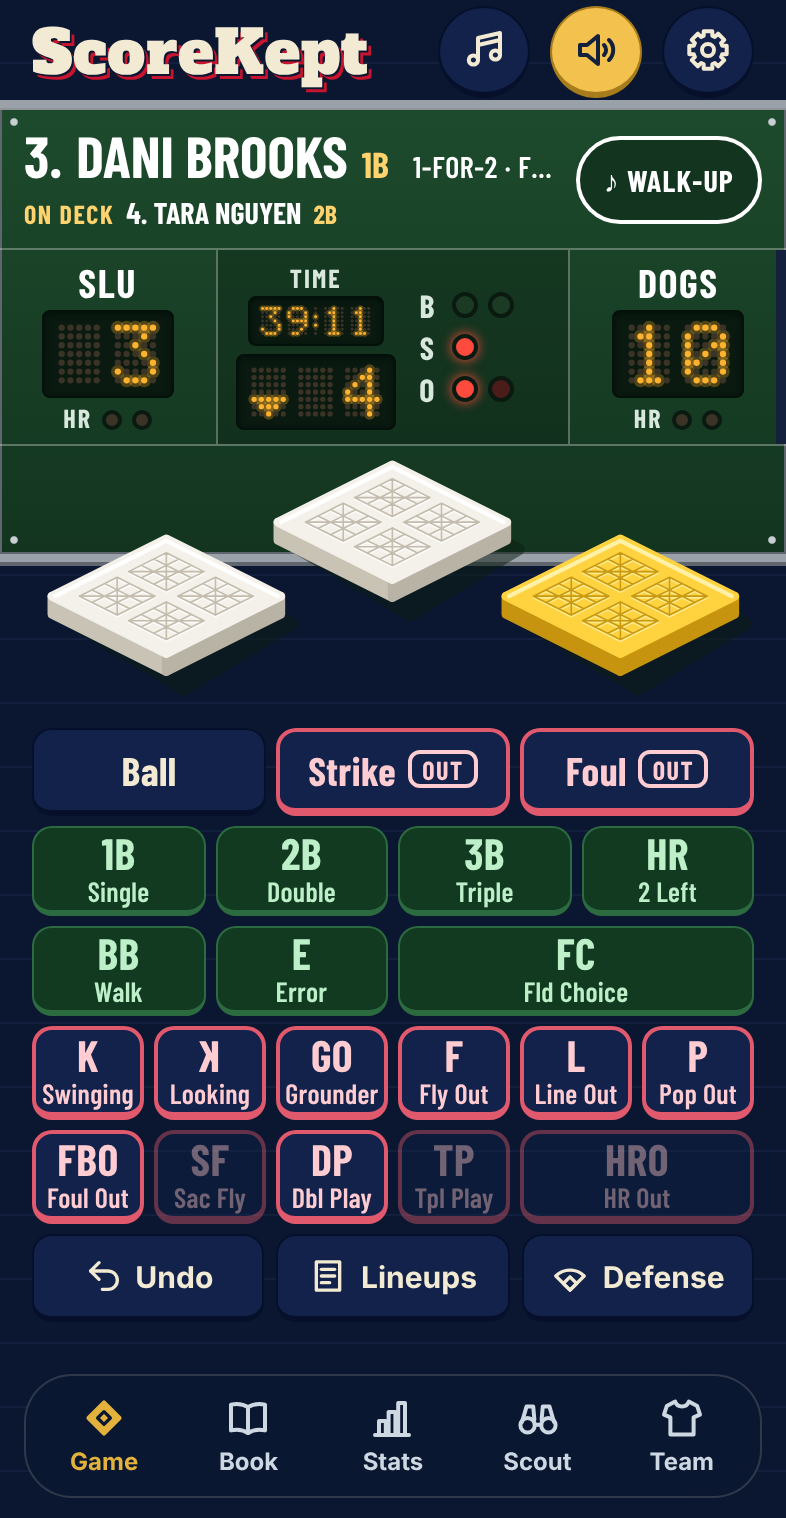
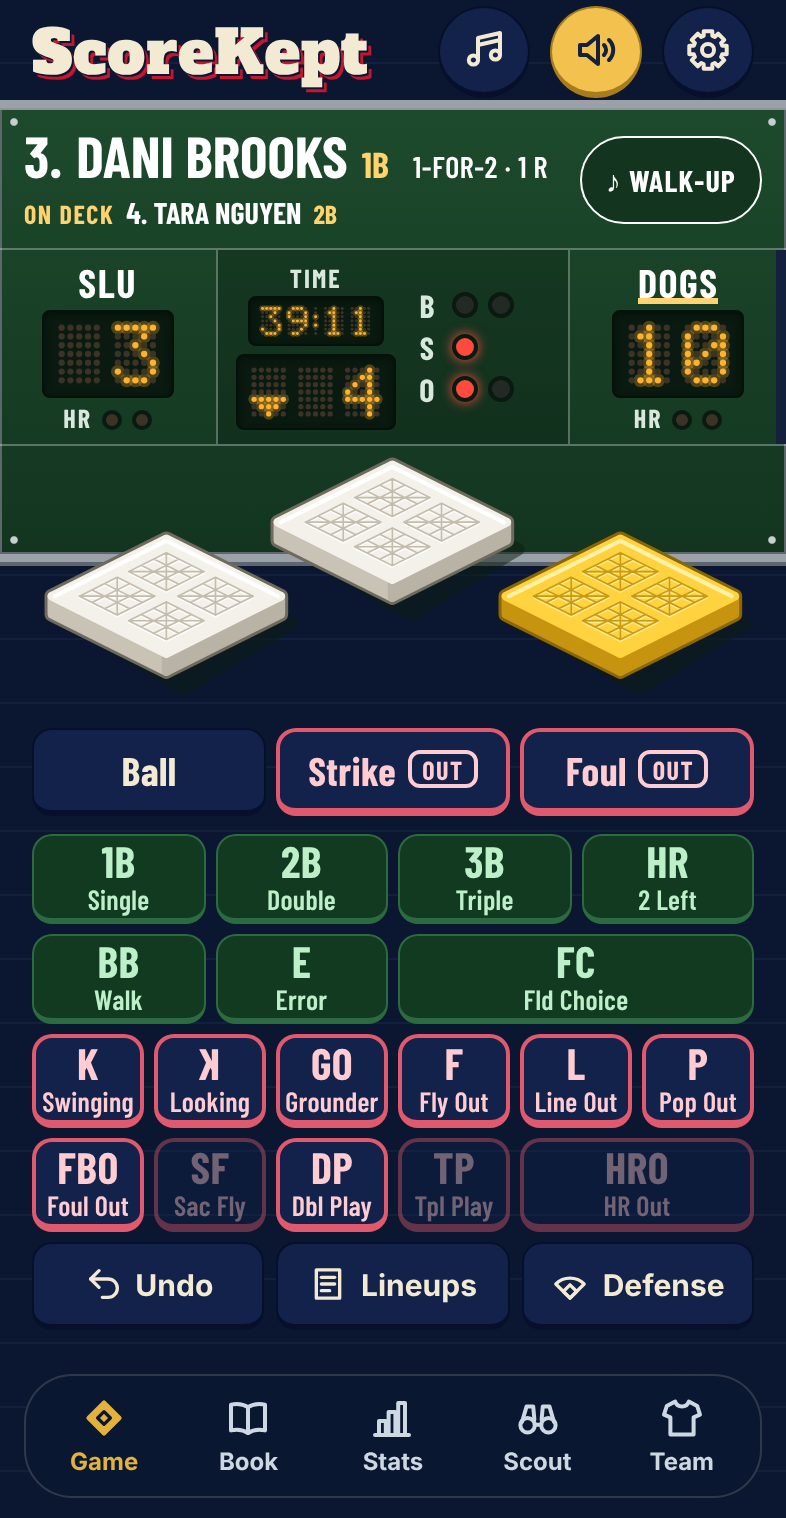
Game: batting-team bar, trimmed today line, sharper bases, darker unlit lamps
From outside feedback Steve shared: a gold bar under the team at bat, the
batter's line drops its codes instead of trailing off, a dark rim on every
base for sunlight, unlit B, S, O lamps go to a dark socket, a thinner
Walk-Up frame, and a little more room under Ball, Strike, and Foul.

Claude-Session: https://claude.ai/code/session_019GkS5eEiAzmEB3GrHC5aVf

diff --git a/src/app/view.ts b/src/app/view.ts
@@ -39,11 +39,13 @@ export interface BoardView {
    * Broadcast-style top line (Steve's scorebug pass, Nov 13): name, position, and today
    * ("2-for-2 · 1B, 3B · 1 RBI · 1 R"), the name getting the room first.
    */
-  top: { spot: string; name: string; pos: string; today: string };
+  top: { spot: string; name: string; pos: string; today: string; todayShort: string };
   /** On Deck, under the batter's name; or Due Up while we're in the field in Dugout Mode. */
   next: { label: string; spot: string; name: string; pos: string };
   /** The words VoiceOver reads for the board. */
   spoken: string;
+  /** The game is over (no team at bat). */
+  final: boolean;
 }
 
 export type PadMode = 'pad' | 'quick' | 'final';
@@ -111,6 +113,15 @@ export function boardView(team: Team, game: SavedGame, s: GameState, now: number
     if (t.R > 0) parts.push(`${t.R} R`);
     return parts.filter(Boolean).join(' · ');
   };
+  // The same without the codes, for when the full line won't fit beside the name.
+  const todayShortFor = (id: string): string => {
+    const t = todayCounts.get(id);
+    if (!t || t.PA === 0) return '';
+    const parts = [`${t.H}-for-${t.AB}`];
+    if (t.RBI > 0) parts.push(`${t.RBI} RBI`);
+    if (t.R > 0) parts.push(`${t.R} R`);
+    return parts.join(' · ');
+  };
 
   const posOf = (id: string) => {
     const pos = defense[id];
@@ -122,7 +133,7 @@ export function boardView(team: Team, game: SavedGame, s: GameState, now: number
   if (tracked && order.length) {
     const ours = batting === 'us';
     const cur = at(0)!;
-    top = { spot: spotOf(0), name: ours ? name(cur.player) : cur.player, pos: ours ? posOf(cur.player) : '', today: ours ? todayFor(cur.player) : '' };
+    top = { spot: spotOf(0), name: ours ? name(cur.player) : cur.player, pos: ours ? posOf(cur.player) : '', today: ours ? todayFor(cur.player) : '', todayShort: ours ? todayShortFor(cur.player) : '' };
     const deck = at(1)!;
     next = {
       label: 'On Deck',
@@ -131,7 +142,7 @@ export function boardView(team: Team, game: SavedGame, s: GameState, now: number
       pos: ours ? posOf(deck.player) : '',
     };
   } else {
-    top = { spot: '', name: `${game.opponent} at Bat`, pos: '', today: '' };
+    top = { spot: '', name: `${game.opponent} at Bat`, pos: '', today: '', todayShort: '' };
     const ours = s.lineups.us;
     const n = s.nextSlot.us;
     const due = [0, 1, 2]
@@ -141,7 +152,7 @@ export function boardView(team: Team, game: SavedGame, s: GameState, now: number
     next = { label: 'Due Up', spot: '', name: due.join(' · '), pos: '' };
   }
   if (s.final) {
-    top = { spot: '', name: 'Final', pos: '', today: '' };
+    top = { spot: '', name: 'Final', pos: '', today: '', todayShort: '' };
     next = { label: '', spot: '', name: '', pos: '' };
   }
 
@@ -174,6 +185,7 @@ export function boardView(team: Team, game: SavedGame, s: GameState, now: number
     top,
     next,
     spoken,
+    final: !!s.final,
   };
 }
 

diff --git a/src/ui/game/board.ts b/src/ui/game/board.ts
@@ -54,6 +54,7 @@ function drawBase(): SVGSVGElement {
     'svg',
     { viewBox: '0 0 84 62', class: 'gm-bag', 'aria-hidden': 'true', focusable: 'false' },
     svg('polygon', { points: `${l[0] + 7},${l[1] + 9} ${b[0] + 6},${b[1] + 12} ${r[0] + 4},${r[1] + 9} ${t[0] + 6},${t[1] + 10}`, class: 'gm-bag-shadow' }),
+    svg('polygon', { points: `${pt(l)} ${pt(t)} ${pt(r)} ${pt(r, SIDE)} ${pt(b, SIDE)} ${pt(l, SIDE)}`, class: 'gm-bag-outline' }),
     svg('polygon', { points: `${pt(l)} ${pt(b)} ${pt(b, SIDE)} ${pt(l, SIDE)}`, class: 'gm-bag-side gm-bag-left' }),
     svg('polygon', { points: `${pt(b)} ${pt(r)} ${pt(r, SIDE)} ${pt(b, SIDE)}`, class: 'gm-bag-side gm-bag-right' }),
     svg('polygon', { points: `${pt(t)} ${pt(r)} ${pt(b)} ${pt(l)}`, class: 'gm-bag-top' }),
@@ -169,7 +170,10 @@ export class Board {
     setText(this.spot, v.top.spot ? `${v.top.spot}.` : '');
     setText(this.batter, v.top.name);
     setText(this.pos, v.top.pos);
+    // The full line when it fits beside the name; else without the codes, so it never trails off.
     setText(this.todayText, v.top.today);
+    setAttr(this.todayText, 'data-full', v.top.today || null);
+    if (this.todayText.scrollWidth > this.todayText.clientWidth + 1) setText(this.todayText, v.top.todayShort);
     this.el.style.setProperty('--team', teamColor);
 
     for (const side of ['away', 'home'] as const) {
@@ -177,6 +181,8 @@ export class Board {
       const box = this.teams[side];
       setText(box.name, t.abbr);
       box.box.classList.toggle('us', t.us);
+      // A gold bar under the team at bat: a shape as well as a color.
+      box.box.classList.toggle('batting', (side === 'away') === (v.half === 'top') && !v.final);
       box.runs.set(String(t.runs));
       box.hr.hidden = t.hrLamps === 0;
       lampsTo(box.lamps, t.hrLamps, t.hrUsed, 'gm-hrlamp');

diff --git a/src/ui/game/game.css b/src/ui/game/game.css
@@ -195,6 +195,11 @@
   text-overflow: ellipsis;
 }
 
+/* The team at bat: a gold bar under its name (a shape, so it never rests on color alone). */
+.gm-team.batting .gm-name {
+  box-shadow: inset 0 -3px 0 var(--fb-gold);
+}
+
 .gm-housing {
   display: inline-flex;
   padding: 3px 4px;
@@ -439,6 +444,18 @@
   overflow: visible;
 }
 
+/* A darker rim around the whole bag, so an empty white base holds its shape on cream paper in sunlight. */
+.gm-bag-outline {
+  fill: none;
+  stroke: var(--fb-base-outline);
+  stroke-width: 5;
+  stroke-linejoin: round;
+}
+
+.gm-base.on .gm-bag-outline {
+  stroke: var(--fb-base-runner-outline);
+}
+
 .gm-bag-shadow {
   fill: var(--fb-base-shadow);
   opacity: 0.5;
@@ -536,6 +553,11 @@
 /* With the count off, BB joins the row: four and three, like the first build. */
 .gm-reaches.gm-seven {
   grid-template-columns: repeat(4, minmax(0, 1fr));
+}
+
+/* Ball, Strike, and Foul get tapped most: a little extra room under them, away from 1B and 2B. */
+.gm-count-row {
+  margin-bottom: 4px;
 }
 
 .gm-count-row {
@@ -1164,7 +1186,7 @@
   min-height: 44px;
   min-width: 44px;
   padding: 0 12px;
-  border: 2px solid var(--fb-label);
+  border: 1.5px solid var(--fb-label);
   border-radius: 999px;
   background-color: var(--fb-green-dark);
   color: var(--fb-label);

diff --git a/tests/e2e/game.spec.ts b/tests/e2e/game.spec.ts
@@ -212,7 +212,8 @@ test('Due Up shows our next three while we’re in the field in Dugout Mode', as
 
 /** How many of today's trips to the plate the batter's Today line lists ("0-for-2 · K, F8" is 2). */
 async function todayCodes(page: Page): Promise<number> {
-  const t = (await page.locator('.gm-today-text').textContent()) ?? '';
+  // The full line (the board may show a shorter one when it doesn't fit).
+  const t = (await page.locator('.gm-today-text').getAttribute('data-full')) ?? '';
   const codes = t.split(' · ')[1] ?? '';
   return codes ? codes.split(', ').length : 0;
 }
@@ -402,6 +403,8 @@ test('never color alone: out keys are outlined, reach keys filled, and the out p
   expect(grounder.bg).not.toEqual(single.bg);
   expect(grounder.border).toBeGreaterThanOrEqual(2);
   expect(single.border).toBeLessThan(2);
+  // The team at bat has its bar, and only that team.
+  await expect(page.locator('.gm-team.batting')).toHaveCount(1);
   // With two strikes in the sample's count rule, the out pitch carries a tag in words.
   const strike = page.locator('.gm-pitch').filter({ hasText: 'Strike' });
   for (let i = 0; i < 3 && !(await strike.locator('.gm-pitch-tag').textContent()); i++) await key(page, 'Strike').click();

diff --git a/src/styles/tokens.css b/src/styles/tokens.css
@@ -311,9 +311,9 @@
   --fb-bulb-on: #ffb22e;
   --fb-bulb-off: #3b3426;
   --fb-red-on: #ff4b3e;
-  --fb-red-off: #4a1d1a;
+  --fb-red-off: #232a25;
   --fb-green-on: #4ee07a;
-  --fb-green-off: #1b3b25;
+  --fb-green-off: #232a25;
   --fb-base: #f4f1ea;
   /* Light catching the near top edges of a base. */
   --fb-base-hi: #ffffff;
@@ -354,6 +354,8 @@
   --fb-base-side: #c9c3b5;
   --fb-base-runner-side: #c79410;
   --fb-base-runner-hi: #fff1a8;
+  --fb-base-outline: #6f6a5e;
+  --fb-base-runner-outline: #8a6606;
   --fb-base-mold: #c4bdae;
   --fb-base-runner-mold: #c99a12;
   /* The Book's hand-hung board: painted sign, hung number plates, light banks on top. */

diff --git a/src/content/whats-new.ts b/src/content/whats-new.ts
@@ -10,6 +10,11 @@ export interface WhatsNewEntry {
 
 export const WHATS_NEW: WhatsNewEntry[] = [
   {
+    version: '2026.11.13-13',
+    headline: 'Now Batting, Underlined',
+    lines: ['A gold bar marks the team at bat, the bases have a sharper edge for sunny days, unlit lamps go dark so the count jumps out, and the batter’s line trims itself instead of trailing off.'],
+  },
+  {
     version: '2026.11.13-12',
     headline: 'Easier on the Eyes',
     lines: [

diff --git a/src/version.ts b/src/version.ts
@@ -1,2 +1,2 @@
 // Bump on every push that changes the app. Format: YYYY.MM.DD-N
-export const APP_VERSION = '2026.11.13-12';
+export const APP_VERSION = '2026.11.13-13';

diff --git a/docs/SPEC.md b/docs/SPEC.md
@@ -371,6 +371,7 @@ Grouped; each item opens its own screen; ✕ or Done returns to Settings:
 - **Tab bar, outline to fill (2026.11.13-11, Steve's pick from the tab bar mockups):** no pill: the tab you're on shows its icon solid and gold, with a gold label (shape and color both mark it). Icons redrawn rounder at one stroke weight: a diamond with the infield, an open scorebook, three bars short to tall for Stats (Steve: the spray chart didn't read), binoculars, a jersey. Each has an outline and a solid version (`tabIcon`).
 - **Tucked tab bar (2026.11.13-11, after Apple Music):** scrolling down on Book, Stats, Scout, or Team folds the bar into one 54-point circle showing the tab you're on; scrolling up, or tapping the circle, brings the bar back. While a game is going, a **mini scorebug** rides beside the circle: both short names and runs in the board's green with amber runs, the bags with runners in gold, the inning with its arrow, and the out lamps; VoiceOver reads it in words, and tapping it opens the Game tab. The Game tab never tucks (it never scrolls), nor does the sideways rail. No music button (Steve: the Organ isn't crucial there).
 - **Visibility and color blindness (2026.11.13-12, Steve: "47 year old eyes", consider color blindness):** contrast 7:1 for normal text in Dark Mode as well as light (the sheets' close button darkened to pass); no text under 12 points (tab labels 12, board captions and On Deck 13, pad words 14; a unit test holds the floor). Out keys are outlined (key-colored face, 2-point red frame, 4-point bottom edge) and reaching-base keys stay filled, so the two read apart without color; Edit Play and the over-the-limit HR key follow. The pitch that would end the at-bat shows a boxed **Out** (Strike, Foul) or **Walk** (Ball) beside its word. Checked in a deuteranopia and protanopia simulation. Pad keys tightened (1-point top padding, 5-point gaps) so the Game screen still fits with 12 points to spare.
+- **From outside feedback Steve shared (2026.11.13-13):** a gold bar under the batting team's short name on the board (a shape as well as a color); today's line falls back to hits for at-bats, RBI, and runs (no codes) when the full line won't fit beside the name; the Walk-Up frame thinned to 1.5 points; a dark rim around every base so an empty one holds its shape on cream paper; unlit B, S, O lamps are a dark neutral socket so lit and unlit read apart in sun; 4 extra points under the pitch row. Already built and kept: three lamps' room for balls (the lamps follow the rule set: Fort Collins is 3 balls and 2 strikes, so two and one), runner moves by tapping bases, FC asking which runner, the mixed walk, the run rule ending the game. Not taken: ERA and earned runs (no pitching stats), a separate Undo in the corner (Undo sits in the pad's bottom row).
 - **Status bar (2026.11.13-12):** `black-translucent`: the app runs under the clock and battery, which iOS draws in white, over a navy band (`--status-band`) as tall as the top safe area in both appearances. Outside the Home Screen app the band is zero tall. Reduce Motion swaps without sliding; Increase Contrast and Reduce Transparency make the circle solid.
 
 - **App icon:** the standard ScoreKept scorebook for everyone (not team-colored): a hardbound scorebook cover with stitched spine and cream page edges, a white diamond with three bases and a real home plate, white thin baselines, white R·H·E numbers in a dark inset panel, score-bug gloss and stripe, a white sticker outline. 180, 192, 512 px PNGs plus manifest. Name under icon: ScoreKept.
